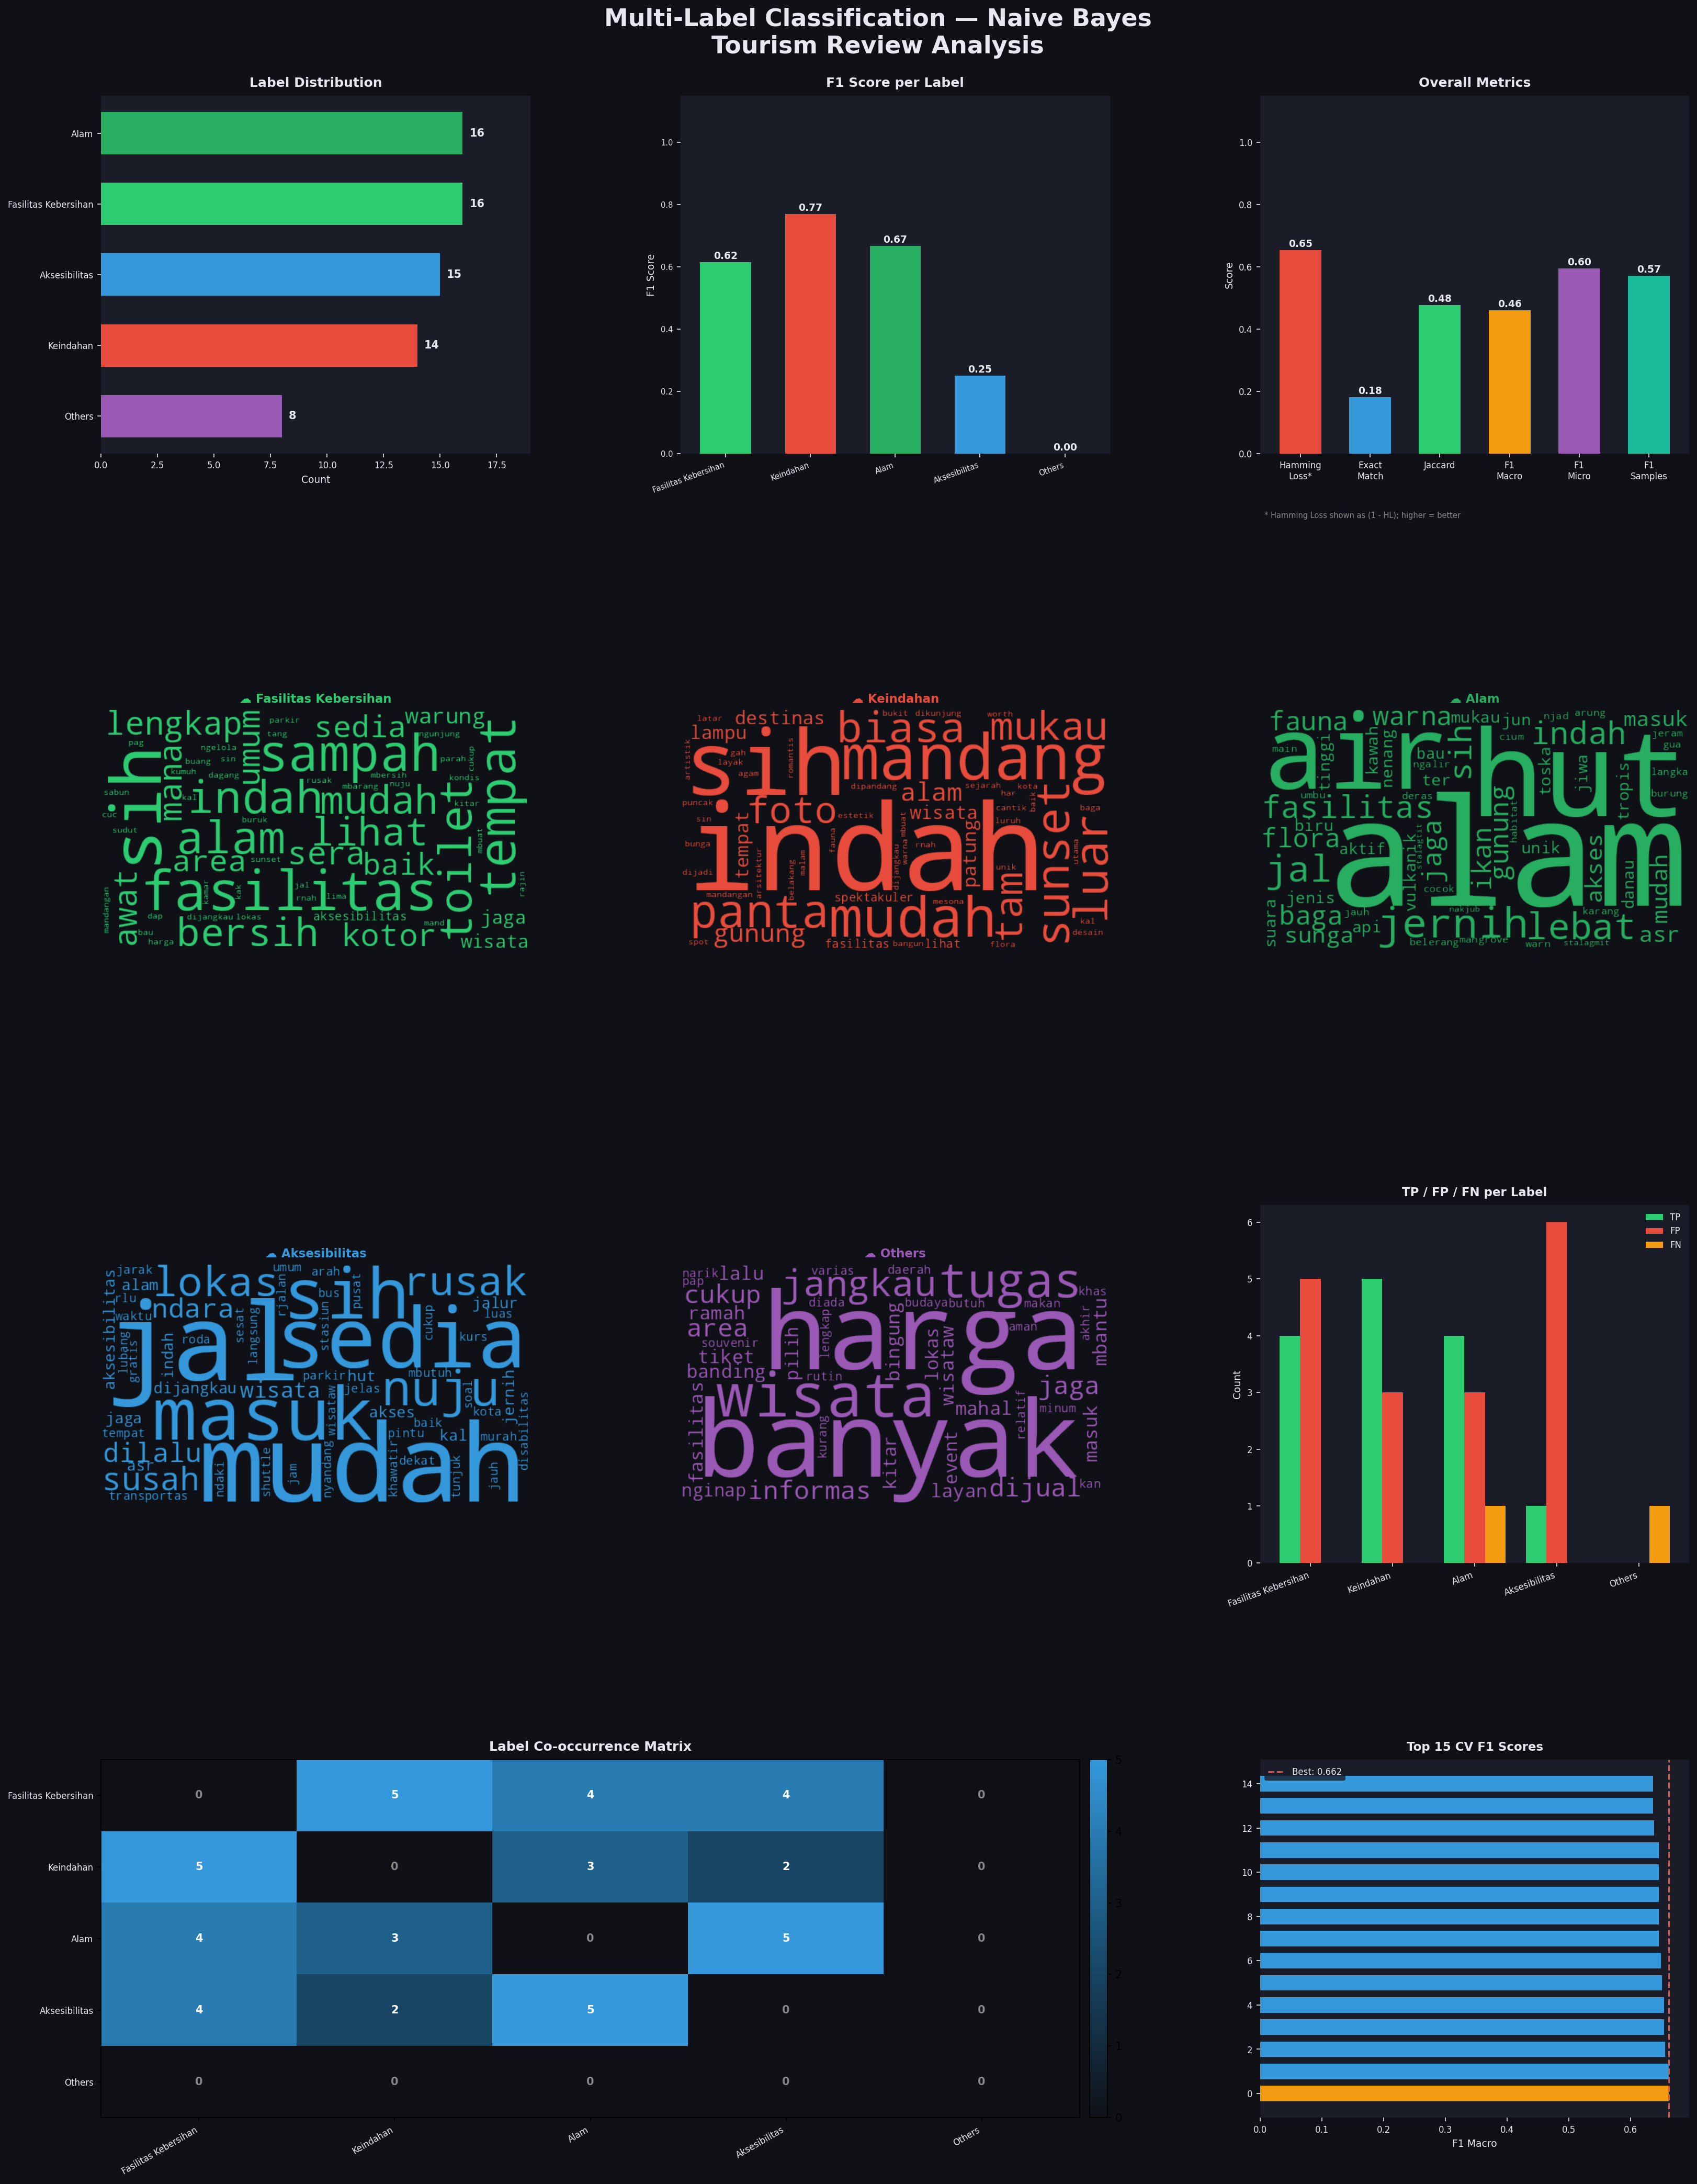
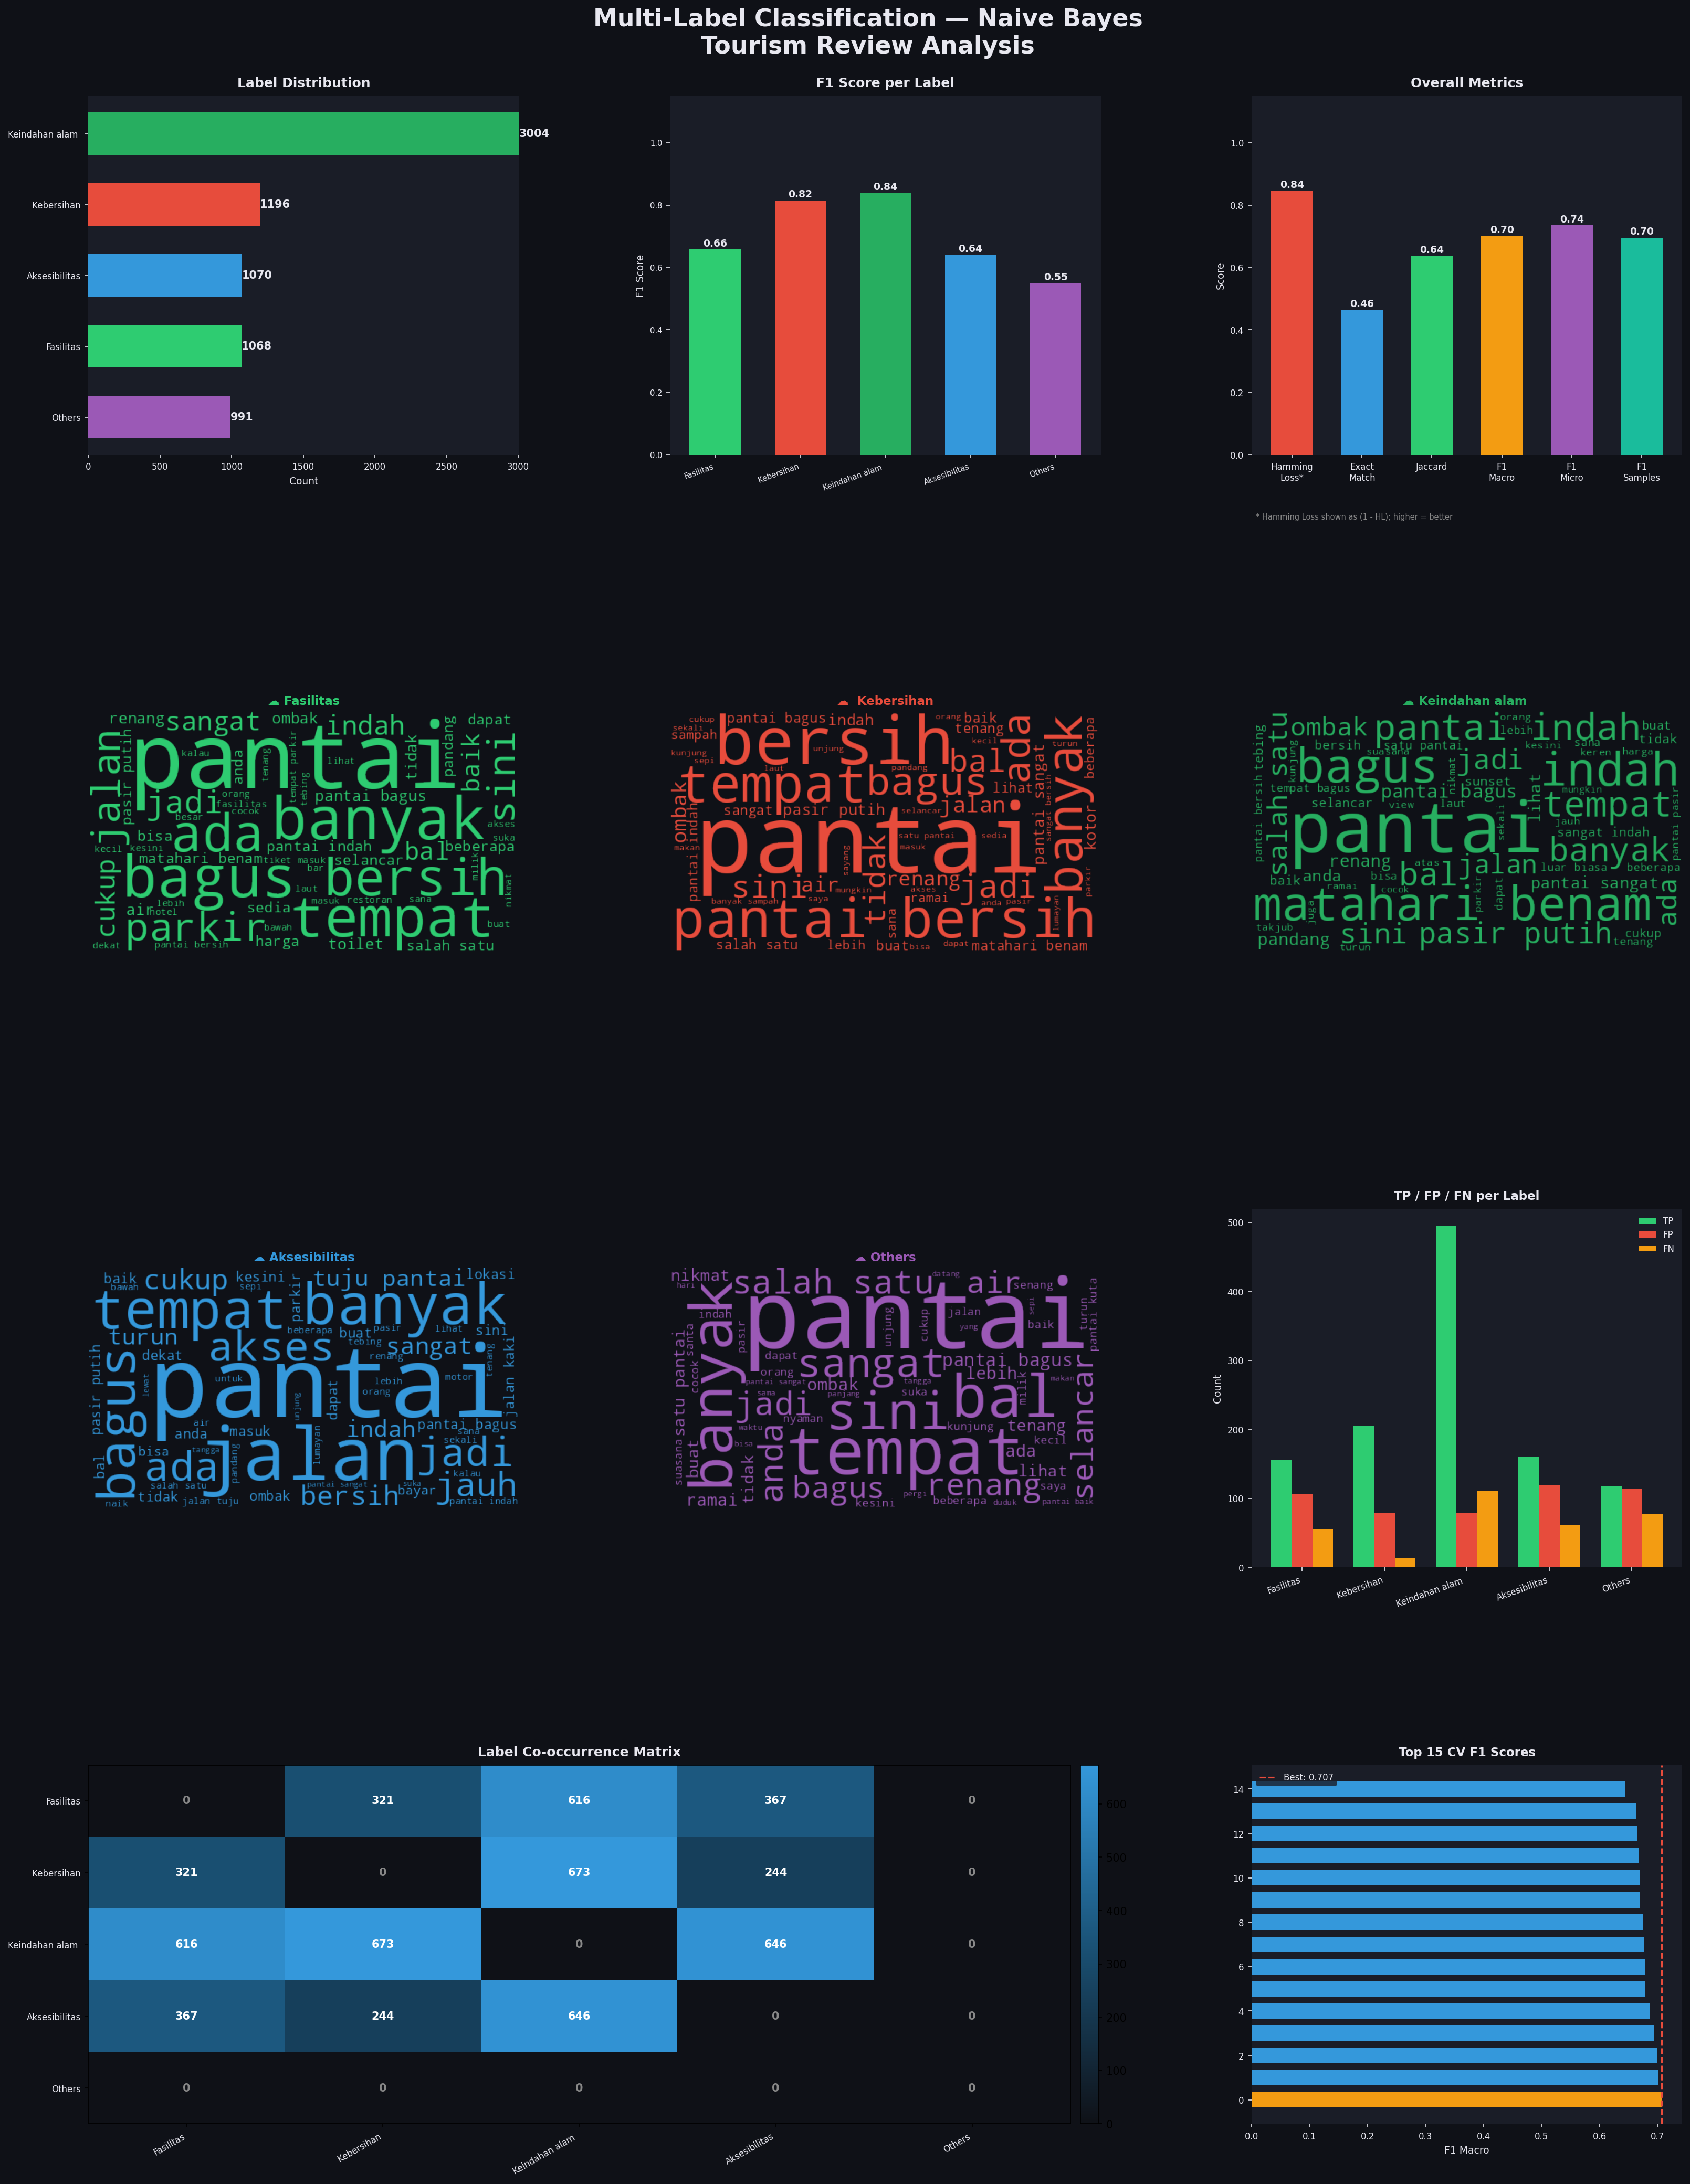
use newest model

diff --git a/templates/analysis.html b/templates/analysis.html
@@ -1,0 +1,52 @@
+<!DOCTYPE html>
+<html lang="id">
+<head>
+    <meta charset="UTF-8">
+    <meta name="viewport" content="width=device-width, initial-scale=1.0">
+    <title>Analisis Model - Multilabel NB</title>
+    <style>
+        body {
+            margin: 0;
+            font-family: sans-serif;
+            background: #f5f6fa;
+            display: flex;
+            flex-direction: column;
+            align-items: center;
+            padding: 2rem;
+        }
+        h1 {
+            color: #2c3e50;
+            margin-bottom: 1.5rem;
+        }
+        .image-container {
+            background: #fff;
+            border-radius: 12px;
+            box-shadow: 0 4px 16px rgba(0,0,0,0.1);
+            padding: 1.5rem;
+            max-width: 960px;
+            width: 100%;
+        }
+        img {
+            width: 100%;
+            height: auto;
+            display: block;
+            border-radius: 8px;
+        }
+        a.back {
+            margin-top: 1.5rem;
+            text-decoration: none;
+            color: #3498db;
+            font-size: 0.95rem;
+        }
+        a.back:hover { text-decoration: underline; }
+    </style>
+</head>
+<body>
+    <h1>📊 Analisis Model Multilabel NB</h1>
+    <div class="image-container">
+        <img src="{{ url_for('static', filename='multilabel_nb_analysis.png') }}"
+             alt="Multilabel NB Analysis">
+    </div>
+    <a class="back" href="/">← Kembali ke Halaman Utama</a>
+</body>
+</html>

diff --git a/templates/index.html b/templates/index.html
@@ -532,7 +532,34 @@
     <div class="info-chip">🔧 <strong>RandomizedSearchCV</strong> tuned</div>
     <div class="info-chip">🇮🇩 Bahasa Indonesia</div>
   </div>
+
+  <div style="margin-top:24px;animation:fadeDown .7s .5s ease both">
+    <a href="/analysis" class="btn-analysis">📊 Lihat Analisis Model</a>
+  </div>
 </header>
+
+<style>
+  .btn-analysis {
+    display: inline-flex;
+    align-items: center;
+    gap: 8px;
+    padding: 10px 24px;
+    background: transparent;
+    border: 1px solid rgba(74,235,160,.35);
+    border-radius: var(--radius);
+    color: var(--accent);
+    font-family: var(--font-body);
+    font-size: 13px;
+    font-weight: 500;
+    text-decoration: none;
+    transition: background .2s, border-color .2s, transform .15s;
+  }
+  .btn-analysis:hover {
+    background: rgba(74,235,160,.08);
+    border-color: rgba(74,235,160,.6);
+    transform: translateY(-2px);
+  }
+</style>
 
 <!-- ── MAIN ────────────────────────────────────────────── -->
 <div class="container">
@@ -713,6 +740,8 @@
       });
       const data = await resp.json();
       if (data.error) throw new Error(data.error);
+
+      console.log(data.results);
 
       container.innerHTML = `
         <div class="results-header" style="margin-top:32px">

diff --git a/app.py b/app.py
@@ -6,13 +6,14 @@ from flask import Flask, render_template, request, jsonify
 import joblib
 import re
 import os
+from Sastrawi.Stemmer.StemmerFactory import StemmerFactory
+from Sastrawi.StopWordRemover.StopWordRemoverFactory import StopWordRemoverFactory
 
 app = Flask(__name__)
 
 # ── Load model & binarizer ─────────────────────────────────────────────
 BASE_DIR = os.path.dirname(__file__)
 model = joblib.load(os.path.join(BASE_DIR, "multilabel_nb_model.pkl"))
-mlb   = joblib.load(os.path.join(BASE_DIR, "label_binarizer.pkl"))
 
 LABEL_NAMES = ["Fasilitas Kebersihan", "Keindahan", "Alam", "Aksesibilitas", "Others"]
 
@@ -25,40 +26,73 @@ LABEL_META = {
 }
 
 # ── Indonesian stopwords ───────────────────────────────────────────────
-STOPWORDS_ID = {
-    "yang", "dan", "di", "ke", "dari", "ini", "itu", "dengan", "untuk",
-    "adalah", "ada", "pada", "juga", "saya", "kami", "kita", "mereka",
-    "sangat", "sudah", "bisa", "tidak", "ya", "atau", "akan", "lebih",
-    "satu", "dua", "tiga", "ber", "ter", "me", "per", "an", "kan",
-    "lagi", "jadi", "tapi", "namun", "karena", "kalau", "jika", "maka",
-    "agar", "supaya", "hingga", "serta", "maupun", "bahwa", "sehingga",
-    "dalam", "oleh", "atas", "bawah", "antara", "tanpa", "setelah",
-    "sebelum", "selama", "seperti", "sama", "semua", "setiap", "masih",
-    "belum", "pun", "nih", "sih", "deh", "dong", "lho",
-    "nya", "mu", "ku", "punya", "milik", "bagi", "para",
+
+EXTRA_STOPWORDS = {
+    "nih", "sih", "deh", "dong", "lho", "tuh", "yuk", "wah",
+    "banget", "bgt", "udah", "udh", "gak", "nggak", "ga",
+    "nya", "mu", "ku", "tp", "yg", "dgn", "utk", "jg", "krn",
+    "klo", "kl", "emg", "emang", "kayak", "kaya", "aja", "doang",
 }
 
-def preprocess_text(text):
-    text = text.lower()
-    text = re.sub(r"http\S+|www\S+", "", text)
-    text = re.sub(r"<[^>]+>", "", text)
+_stemmer_factory = StemmerFactory()
+_stemmer         = _stemmer_factory.create_stemmer()
+
+_sw_factory      = StopWordRemoverFactory()
+_sw_remover      = _sw_factory.create_stop_word_remover()
+
+def translate_to_indonesian(text):
+    """Translate English to Indonesian. Skip if already Indonesian or other language."""
+    try:
+        lang = detect(text)
+        if lang != "en":
+            return text
+        translated = GoogleTranslator(source="en", target="id").translate(text)
+        return translated if translated else text
+    except Exception:
+        return text
+
+
+# ── Atomic preprocessing step functions ──────────────────────────────
+def step_translate(text):
+    return translate_to_indonesian(text)
+
+def step_lowercase(text):
+    return text.lower()
+
+def step_remove_urls(text):
+    return re.sub(r"http\S+|www\S+", "", text)
+
+def step_remove_html(text):
+    return re.sub(r"<[^>]+>", "", text)
+
+def step_remove_special_chars(text):
     text = re.sub(r"[^a-z\s]", " ", text)
-    text = re.sub(r"\s+", " ", text).strip()
-    tokens = text.split()
-    tokens = [t for t in tokens if t not in STOPWORDS_ID and len(t) > 2]
-    cleaned = []
-    for token in tokens:
-        for prefix in ["me", "ber", "ter", "pe", "ke", "se"]:
-            if token.startswith(prefix) and len(token) > len(prefix) + 2:
-                token = token[len(prefix):]
-                break
-        for suffix in ["kan", "an", "nya", "i"]:
-            if token.endswith(suffix) and len(token) > len(suffix) + 2:
-                token = token[:-len(suffix)]
-                break
-        if len(token) > 2:
-            cleaned.append(token)
-    return " ".join(cleaned)
+    return re.sub(r"\s+", " ", text).strip()
+
+def step_remove_stopwords(text):
+    return _sw_remover.remove(text)
+
+def step_stem(text):
+    return _stemmer.stem(text)
+
+def step_filter_tokens(text):
+    tokens = [t for t in text.split() if len(t) > 2 and t not in EXTRA_STOPWORDS]
+    return " ".join(tokens)
+
+def preprocess_text(text: str) -> str:
+    if not isinstance(text, str):
+        return ""
+
+    text = step_translate(text)
+    text = step_lowercase(text)
+    text = step_remove_urls(text)
+    text = step_remove_html(text)
+    text = step_remove_special_chars(text)
+    text = step_remove_stopwords(text)
+    text = step_stem(text)
+    text = step_filter_tokens(text)
+
+    return text
 
 
 # ── Routes ─────────────────────────────────────────────────────────────
@@ -94,8 +128,8 @@ def predict():
         except Exception:
             pred_prob = [None] * len(LABEL_NAMES)
 
-        pred_labels = mlb.inverse_transform(pred_bin)[0]
-        pred_labels = list(pred_labels) if pred_labels else ["Others"]
+        pred_labels = [LABEL_NAMES[j] for j, v in enumerate(pred_bin[0]) if v == 1]
+        pred_labels = pred_labels if pred_labels else ["Others"]
 
         label_details = []
         for i, label in enumerate(LABEL_NAMES):
@@ -134,8 +168,8 @@ def predict_list(reviews_raw):
     for review in reviews_raw:
         cleaned  = preprocess_text(review)
         pred_bin = model.predict([cleaned])
-        pred_labels = mlb.inverse_transform(pred_bin)[0]
-        pred_labels = list(pred_labels) if pred_labels else ["Others"]
+        pred_labels = [LABEL_NAMES[j] for j, v in enumerate(pred_bin[0]) if v == 1]
+        pred_labels = pred_labels if pred_labels else ["Others"]
 
         probs = []
         try:
@@ -165,6 +199,11 @@ def predict_list(reviews_raw):
         })
 
     return jsonify({"results": results})
+
+
[email redacted]("/analysis")
+def analysis():
+    return render_template("analysis.html")
 
 
 if __name__ == "__main__":